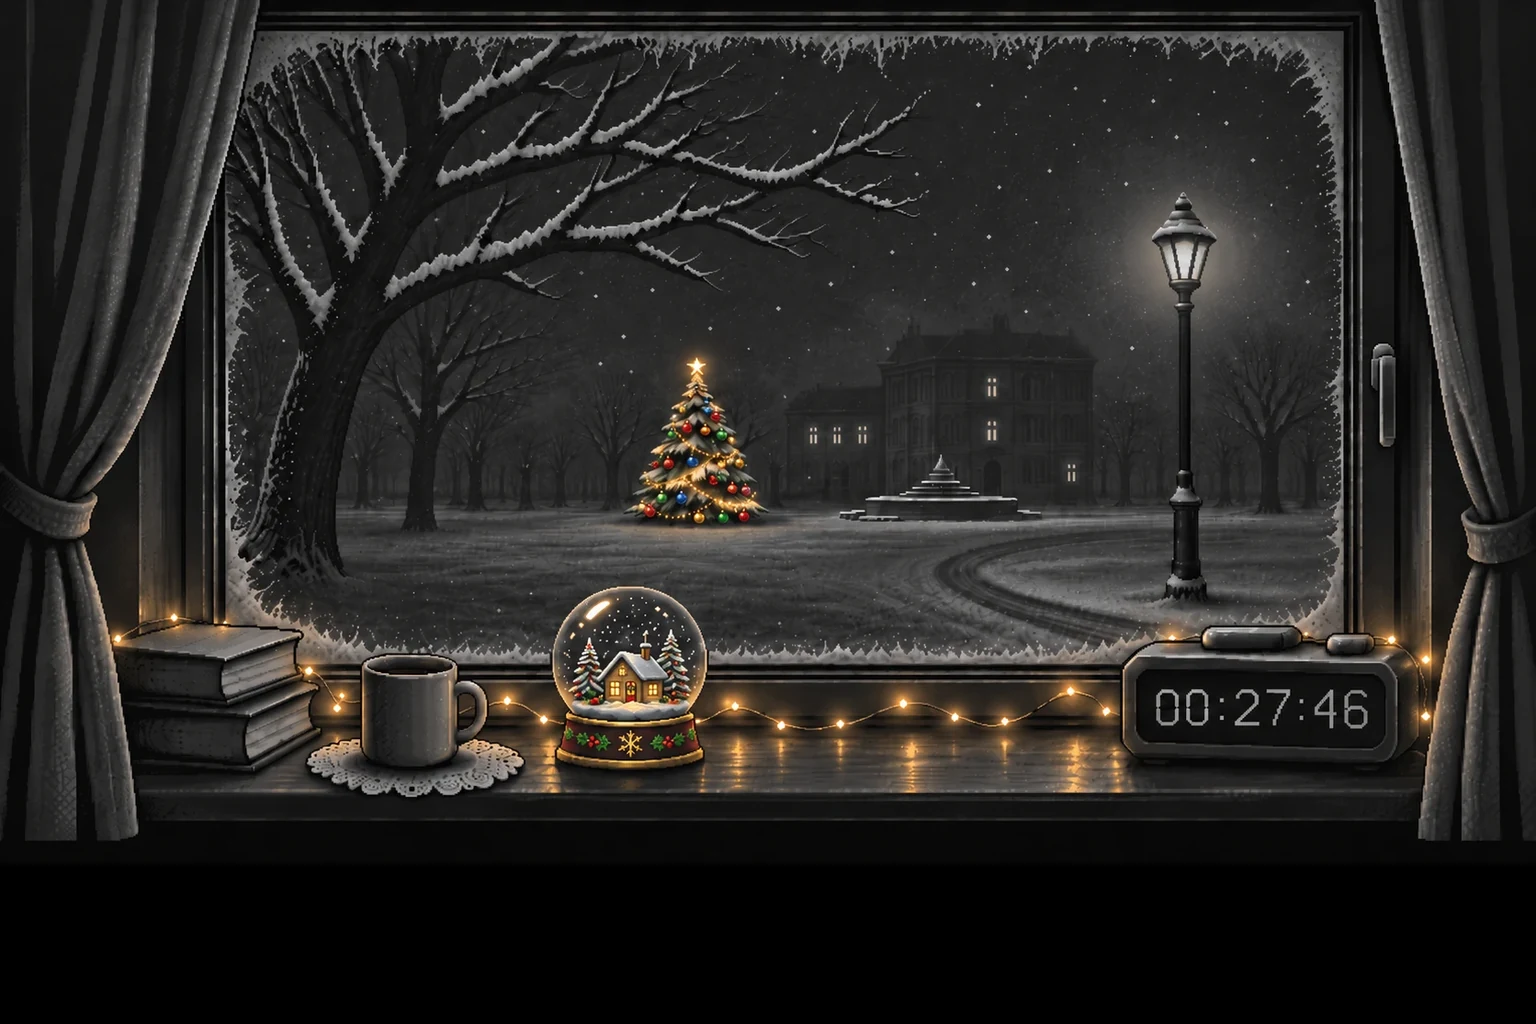
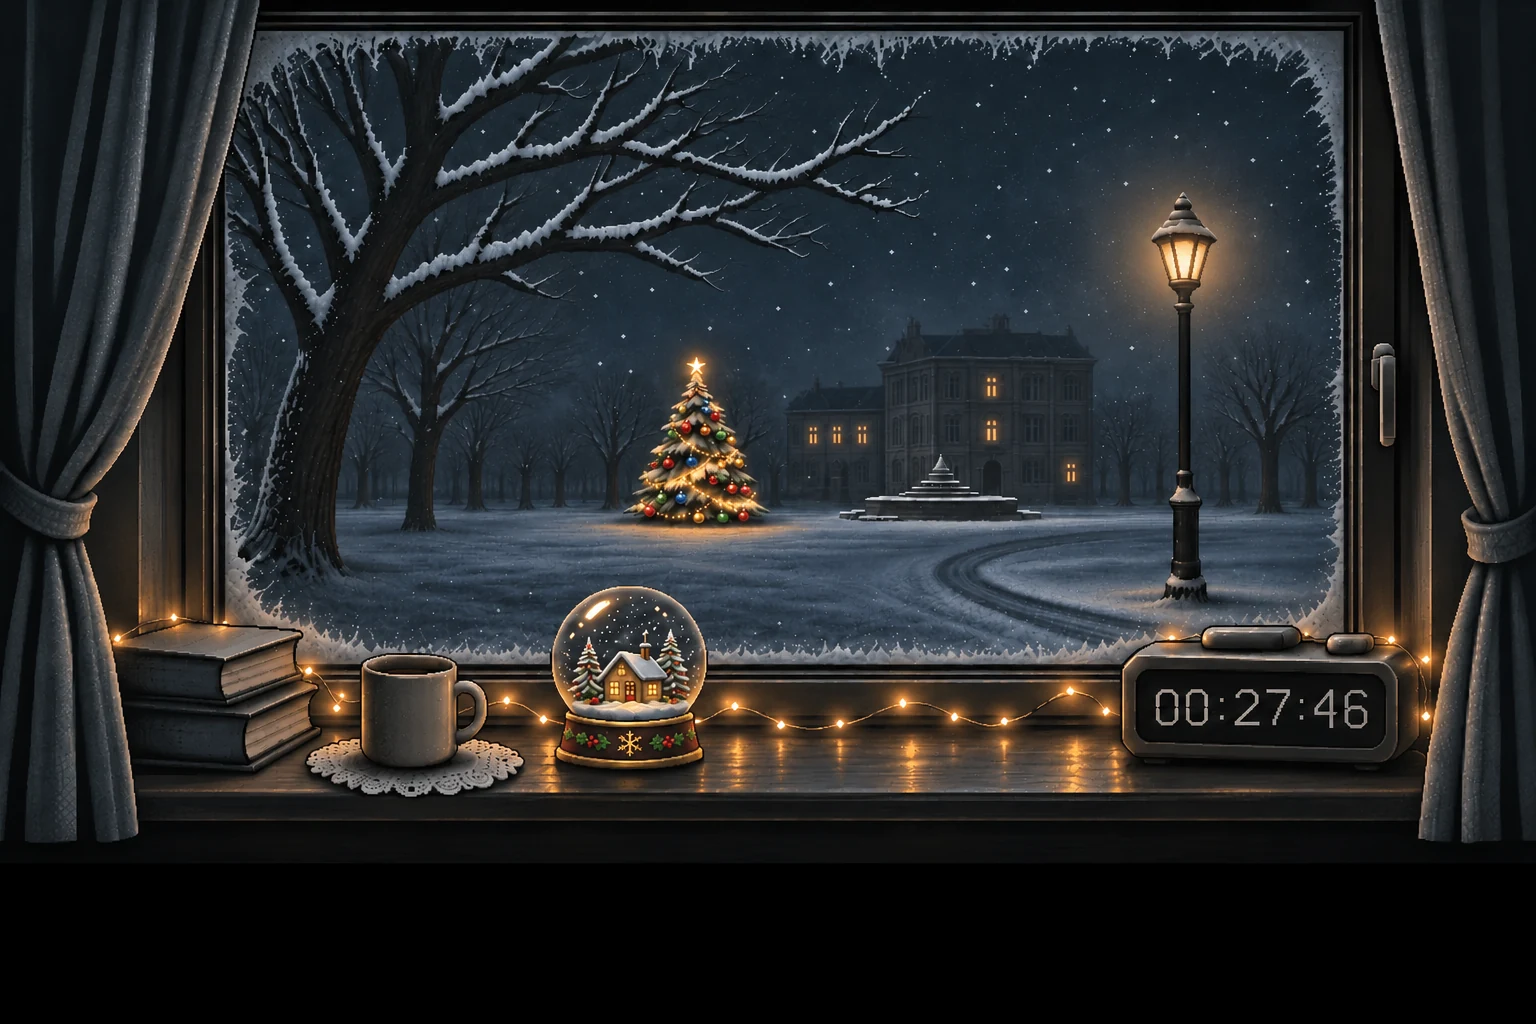
Phone (portrait) version: five portrait stage pictures with own frame, masks, lamp, mug, glass and gift position
Aligned by the clock with tools/normalize_portrait.py; new colour stage4 for wide screens; mute button moved under the stepper on narrow screens; sources in art/.

diff --git a/public/game/game.js b/public/game/game.js
@@ -11,6 +11,11 @@ const OCC={
   globe:{circle:[626,664,78]},
   clockBtn:{poly:[[1200,640],[1206,628],[1296,626],[1304,640],[1300,664],[1204,664]]},
 };
+// The same for the PORTRAIT frame (phones), see CONFIG.portrait.
+const OCCP={
+  globeA:{circle:[400,1352,78]},          // the snow globe on stage 4
+  globeB:{circle:[397,1357,74]},          // ... and on stage 5 (it sits slightly differently in that picture)
+};
 const CONFIG={
   // When each stop opens (local time of the visitor). Stops stay open once they have opened.
   stops:['2026-11-23T10:00','2026-11-28T10:00','2026-12-03T10:00','2026-12-08T10:00','2026-12-13T10:00'],
@@ -29,13 +34,14 @@ const CONFIG={
   //   cup   = centre of the mug's rim, where the faint steam starts
   // A stop without its own picture shows the last available one.
   stages:[
-    {src:'img/stage1.webp',cup:[415,668],clock:[1148,690,1380,752],lamp:[1188,258],tilt:2.3,occ:[OCC.books,OCC.clockBtn]},
-    {src:'img/stage2.webp',cup:[415,668],clock:[1148,690,1380,752],lamp:[1188,258],tilt:2.3,occ:[OCC.books,OCC.clockBtn]},
-    {src:'img/stage3.webp',cup:[410,663],clock:[1144,680,1378,742],lamp:[1190,248],tilt:.4,occ:[OCC.books,OCC.clockBtn]},
-    {src:'img/stage4.webp',cup:[410,663],clock:[1144,680,1378,742],lamp:[1186,252],tilt:1.2,occ:[OCC.books,OCC.globe,OCC.clockBtn]},
+    // p = the same stage in the portrait frame (phones): its own picture, lamp, mug, clear glass and occluders. Anything not listed is inherited.
+    {src:'img/stage1.webp',p:{src:'img/stage1-portrait.webp',lamp:[719,771],cup:[315,1352],glass:[145,112,800,1272],occ:[]},cup:[415,668],clock:[1148,690,1380,752],lamp:[1188,258],tilt:2.3,occ:[OCC.books,OCC.clockBtn]},
+    {src:'img/stage2.webp',p:{src:'img/stage2-portrait.webp',lamp:[721,783],cup:[315,1357],glass:[145,118,800,1272],occ:[]},cup:[415,668],clock:[1148,690,1380,752],lamp:[1188,258],tilt:2.3,occ:[OCC.books,OCC.clockBtn]},
+    {src:'img/stage3.webp',p:{src:'img/stage3-portrait.webp',lamp:[712,802],cup:[243,1366],glass:[100,245,795,1300],occ:[]},cup:[410,663],clock:[1144,680,1378,742],lamp:[1190,248],tilt:.4,occ:[OCC.books,OCC.clockBtn]},
+    {src:'img/stage4.webp',p:{src:'img/stage4-portrait.webp',lamp:[714,723],cup:[220,1360],glass:[115,112,785,1302],occ:[OCCP.globeA]},cup:[410,663],clock:[1144,680,1378,742],lamp:[1186,252],tilt:1.2,occ:[OCC.books,OCC.globe,OCC.clockBtn]},
     // Stage 5+ are warm-toned, so they carry a colour theme for the live layers:
     //   screen = colour of the clock screen, digit/unlit = lit and unlit segments, glow = lamp glow, tint = snow colour multiplier
-    {src:'img/stage5.webp',cup:[408,663],clock:[1144,680,1378,742],lamp:[1186,252],tilt:1.25,occ:[OCC.books,OCC.globe,OCC.clockBtn],screen:'#16100f',digit:'#e4c288',unlit:'#2b1e16',glow:[255,190,100],tint:[1,.92,.78]},
+    {src:'img/stage5.webp',p:{src:'img/stage5-portrait.webp',lamp:[710,790],cup:[225,1364],glass:[100,215,792,1298],occ:[OCCP.globeB]},cup:[408,663],clock:[1144,680,1378,742],lamp:[1186,252],tilt:1.25,occ:[OCC.books,OCC.globe,OCC.clockBtn],screen:'#16100f',digit:'#e4c288',unlit:'#2b1e16',glow:[255,190,100],tint:[1,.92,.78]},
   ],
   // The gift (box + lid cut by tools/prep_gift.py, heart by tools/make_heart.py - swap img/heart.png for the real reveal).
   // Everything is in the 1536x1024 frame / as fractions of the box:  x,y = centre of the box's base on the sill, w = box width;
@@ -56,6 +62,12 @@ const CONFIG={
            colorLines:true,   // the ornaments light up with the frames (false = they stay B/W)
            pixelated:false},  // false for smooth art, true to keep hard pixel edges when scaled
   glass:[250,56,1318,644],             // the clear part of the window, where the live snow falls
+  // PHONES (portrait screens). Its own frame and pictures (tools/normalize_portrait.py aligns them by the clock), everything in that frame's pixels.
+  //   glass = the snow field (the union of every stage's `p.glass`; a stage's own `p.glass` hides the snow outside its window)
+  //   clock/tilt = the clock screen, identical in all five pictures;  gift = where the box stands (x,y,w as in CONFIG.gift)
+  //   fitY = the lowest thing that must stay visible above the dialogue (the bottom of the clock);  dialogMax = room kept for the dialogue, px at most
+  portrait:{w:941,h:1672,glass:[100,112,800,1302],clock:[626,1368,838,1440],tilt:0,
+            gift:{x:545,y:1438,w:110},fitY:1450,dialogMax:225},
 };
 
 
@@ -320,10 +332,12 @@ const save=()=>{try{localStorage.setItem(KEY,JSON.stringify(state))}catch(e){}};
 /* =====================================================================
    ARTWORK
    ===================================================================== */
-const LW=1536,LH=1024;                                   // logical frame of every stage image
+let PORT=false,LW=1536,LH=1024,orientChanged=false;          // logical frame of the stage pictures: 1536x1024 on wide screens, CONFIG.portrait on phones
+/* the stage as it is meant for the current orientation (portrait overrides are merged over the base entry) */
+const stageMeta=i=>{const m=CONFIG.stages[i];if(!m||!PORT)return m;const P=CONFIG.portrait;return {...m,clock:P.clock,tilt:P.tilt,...m.p}};
 const artEl=$('#art'),imgsEl=$('#imgs'),imgA=$('#imgA'),dis=$('#dis'),fx=$('#fx'),fctx=fx.getContext('2d'),clk=$('#clk'),cctx=clk.getContext('2d');
 let box={s:1,left:0,top:0,w:LW,h:LH,P:2},glass={x:0,y:0,w:1,h:1},flakes=[];
-let stageIdx=0,meta=CONFIG.stages[0];
+let stageIdx=0,meta=stageMeta(0);
 let t=0,lampPower=0,lampTarget=0,lampRate=14,flick=1,dip=0,lastBright=-1,dpr=1;
 const imgCache={};
 const loadImg=src=>imgCache[src]||(imgCache[src]=new Promise((res,rej)=>{const i=new Image();i.onload=()=>res(i);i.onerror=()=>rej(new Error('missing '+src));i.src=src}));
@@ -331,19 +345,21 @@ const stageFor=n=>Math.min(Math.max(n,0),CONFIG.stages.length-1);      // 0 = st
 
 function layout(){
   const vw=innerWidth,vh=innerHeight,portrait=vh>vw*1.1,topInset=Math.ceil($('#stepper').getBoundingClientRect().bottom)+10;
+  if(portrait!==PORT){PORT=portrait;LW=PORT?CONFIG.portrait.w:1536;LH=PORT?CONFIG.portrait.h:1024;orientChanged=true}
   dpr=Math.min(2,window.devicePixelRatio||1);
   let s,left,top;
-  if(portrait){s=vw/(LW*.74);left=-LW*.17*s;                          // phones: crop to the window, lamp and clock (x 17%..91%)
-    top=topInset+Math.max(14,(vh-330-topInset-LH*s*.86)/2)}             // and sit between the stepper and the dialogue
+  if(PORT){const pf=CONFIG.portrait,room=clamp(vh*.27,150,pf.dialogMax);     // phones: the whole window, from under the stepper to just above the dialogue
+    s=Math.max(.05,Math.min(vw/LW,(vh-topInset-16-room)/pf.fitY));left=(vw-LW*s)/2;top=topInset}
   else{s=Math.max(.05,Math.min(vw/LW,(vh-topInset)/LH));left=(vw-LW*s)/2;top=topInset}      // never <=0 (a hidden or zero-height window)
   box={s,left,top,w:LW*s,h:LH*s,P:Math.max(2,Math.round(3*s))};
   imgsEl.style.left=left+'px';imgsEl.style.top=top+'px';imgsEl.style.width=box.w+'px';imgsEl.style.height=box.h+'px';
   fx.style.left=left+'px';fx.style.top=top+'px';fx.style.width=box.w+'px';fx.style.height=box.h+'px';
   fx.width=Math.ceil(box.w/box.P);fx.height=Math.ceil(box.h/box.P);
-  const g=CONFIG.glass,k=s/box.P;glass={x:g[0]*k,y:g[1]*k,w:(g[2]-g[0])*k,h:(g[3]-g[1])*k};
+  const g=PORT?CONFIG.portrait.glass:CONFIG.glass,k=s/box.P;glass={x:g[0]*k,y:g[1]*k,w:(g[2]-g[0])*k,h:(g[3]-g[1])*k};
   flakes=[];const n=Math.round(glass.w*glass.h/105);
   for(let i=0;i<n;i++)flakes.push({x:Math.random()*glass.w,y:Math.random()*glass.h,z:Math.random(),ph:Math.random()*6.28,vx:0,vy:0});
   placeClock();placeGift();
+  if(orientChanged){orientChanged=false;showStage(stageIdx,true)}     // the phone was turned: switch to the other set of pictures
 }
 function placeClock(){
   const c=meta.clock,s=box.s,x=box.left+c[0]*s,y=box.top+c[1]*s,w=(c[2]-c[0])*s,h=(c[3]-c[1])*s;
@@ -376,7 +392,7 @@ const giftReady=CONFIG.gift?Promise.all([CONFIG.gift.body,CONFIG.gift.lid,CONFIG
   giftBody.src=CONFIG.gift.body;giftLid.src=CONFIG.gift.lid;heartEl.src=CONFIG.gift.heart;return giftBody.decode().catch(()=>{}).then(()=>true)}).catch(()=>false):Promise.resolve(false);
 giftBody.onload=()=>placeGift();
 function placeGift(){
-  const g=CONFIG.gift;if(!g)return;const s=box.s,w=g.w*s,h=giftBody.naturalWidth?w*giftBody.naturalHeight/giftBody.naturalWidth:w*.8;
+  const g=CONFIG.gift&&(PORT?{...CONFIG.gift,...CONFIG.portrait.gift}:CONFIG.gift);if(!g)return;const s=box.s,w=g.w*s,h=giftBody.naturalWidth?w*giftBody.naturalHeight/giftBody.naturalWidth:w*.8;
   const left=box.left+g.x*s-w/2,top=box.top+g.y*s-h;
   Object.assign(giftEl.style,{width:w+'px',height:h+'px',left:left+'px',top:top+'px'});
   const lf=g.lidFit;Object.assign(giftLid.style,{width:lf.w*100+'%',left:lf.left*100+'%',top:lf.top*100+'%'});
@@ -422,7 +438,7 @@ async function openGiftBox(){
 const BAY8=(()=>{let m=[[0,2],[3,1]];for(let k=0;k<2;k++){const n=m.length,nm=Array.from({length:n*2},()=>Array(n*2));
   for(let y=0;y<n;y++)for(let x=0;x<n;x++){const v=m[y][x]*4;nm[y][x]=v;nm[y][x+n]=v+2;nm[y+n][x]=v+3;nm[y+n][x+n]=v+1}m=nm}return m.flat().map(v=>(v+.5)/64)})();
 async function showStage(idx,instant=false){
-  const m=CONFIG.stages[idx];if(!m)return;
+  const m=stageMeta(idx);if(!m)return;
   const im=await loadImg(m.src).catch(()=>null);if(!im)return;
   if(instant||!imgA.getAttribute('src')){imgA.src=m.src;await imgA.decode().catch(()=>{});stageIdx=idx;meta=m;placeClock();return}
   if(idx===stageIdx)return;
@@ -604,12 +620,14 @@ function frame(ts){
     const gc=(meta.glow||[255,255,255]).join(',');gr.addColorStop(0,`rgba(${gc},${(.22*lp).toFixed(3)})`);gr.addColorStop(1,`rgba(${gc},0)`);c.fillStyle=gr;c.fillRect(lx-LR,ly-LR,LR*2,LR*2);c.globalCompositeOperation='source-over'}
   const sway=Math.sin(t*.35)*6,gx=glass.x,gy=glass.y,gw=glass.w,gh=glass.h;
   stirSnow(dt,k);
+  const sg=meta.glass?meta.glass.map(v=>v*k):null;
   for(const f of flakes){
     f.y+=(10+f.z*22)*dt*(box.s>.5?1:.8);f.x+=(Math.sin(t*.9+f.ph)*(3+f.z*5)+sway*(.4+f.z))*dt;
     if(f.y>=gh){f.y=-2;f.x=Math.random()*gw}
     if(f.x<0)f.x+=gw;else if(f.x>=gw)f.x-=gw;
     if(f.y<0)continue;
     const x=Math.floor(gx+f.x),y=Math.floor(gy+f.y);
+    if(sg&&(x<sg[0]||x>=sg[2]||y<sg[1]||y>=sg[3]))continue;                // outside this stage's own window
     if(occMask&&occMask[y*fx.width+x])continue;
     const dx=x-lx,dy=y-ly,L=Math.max(0,1-Math.sqrt(dx*dx+dy*dy)/(LR*1.3))*clamp(lampPower,0,1);
     let i=f.z<.4?4:f.z<.75?5:6;i=Math.min(8,i+Math.round(L*3));
@@ -1077,6 +1095,6 @@ if(QS.has('debug')){gate.classList.remove('pick');setTimeout(start,50)}
 layout();
 let rz;addEventListener('resize',()=>{clearTimeout(rz);rz=setTimeout(()=>{fitStepper();renderStepper();layout()},150)});
 // warm the cache so the first dissolve is instant
-CONFIG.stages.forEach(s=>loadImg(s.src).catch(()=>{}));
+CONFIG.stages.forEach((_,i)=>loadImg(stageMeta(i).src).catch(()=>{}));
 requestAnimationFrame(frame);
 })();

diff --git a/src/styles.css b/src/styles.css
@@ -90,6 +90,7 @@ button{font:inherit;color:inherit}
 #mute.on.has:hover,#mute.on.has:focus-visible{opacity:1;background:var(--ink);color:#000;outline:none}
 #mute svg{width:100%;height:100%;display:block}
 #mute .x{display:none}#mute.off .w{display:none}#mute.off .x{display:block}
+@media (max-width:699px){#mute{top:calc(max(14px,env(safe-area-inset-top)) + 62px);right:max(10px,env(safe-area-inset-right));width:32px;height:32px;padding:6px}}      /* narrow screens: the progress bar runs edge to edge, so the button sits under it */
 #clockUI{position:fixed;z-index:4;opacity:0;transition:opacity 1.6s;pointer-events:none}
 #clockUI.on{opacity:1}
 #clockBtn{position:absolute;inset:0;background:none;border:0;cursor:pointer;pointer-events:auto}

diff --git a/tools/normalize_portrait.py b/tools/normalize_portrait.py
@@ -1,0 +1,37 @@
+#!/usr/bin/env python3
+"""Fit portrait (phone) stage pictures into ONE common 941x1672 frame and save them as public/img/stageN-portrait.webp.
+
+The pictures are AI-generated, so every one has a slightly different "camera". To keep the clock (which the page draws live on
+the picture) and the sill in the same place from stage to stage, each picture is scaled and shifted so that the CENTRE and WIDTH
+of the painted clock digits ("00:27:46") match a reference. Whatever the picture does not cover is filled by repeating its edge.
+
+Usage:   python3 tools/normalize_portrait.py N:path:cx:cy:w [N:path:cx:cy:w ...]
+         N = stage number (1..5), cx,cy = centre of the clock digits in the source picture (px), w = their width (px)
+Example: python3 tools/normalize_portrait.py 1:art/portrait-1-start.png:731.5:1405.5:181 2:art/portrait-2-now.png:732:1404:182
+Reference: digits centre (732,1404), width 182 (that is what picture 2 already has). Requires: pip install pillow numpy
+"""
+import sys, os
+import numpy as np
+from PIL import Image
+
+FW, FH = 941, 1672
+REF_CX, REF_CY, REF_W = 732.0, 1404.0, 182.0
+out_dir = os.path.join(os.path.dirname(os.path.abspath(__file__)), '..', 'public', 'img')
+
+if len(sys.argv) < 2 or sys.argv[1] in ('-h', '--help'):
+    sys.exit(__doc__)
+os.makedirs(out_dir, exist_ok=True)
+for spec in sys.argv[1:]:
+    n, path, cx, cy, w = spec.split(':') if spec.count(':') == 4 else (lambda p: (p[0], ':'.join(p[1:-3]), *p[-3:]))(spec.split(':'))
+    cx, cy, w = float(cx), float(cy), float(w)
+    im = Image.open(path).convert('RGB')
+    s = REF_W / w
+    im = im.resize((round(im.width * s), round(im.height * s)), Image.LANCZOS)
+    ox, oy = round(REF_CX - cx * s), round(REF_CY - cy * s)             # where the resized picture's top-left lands in the frame
+    x0, y0, x1, y1 = max(0, ox), max(0, oy), min(FW, ox + im.width), min(FH, oy + im.height)
+    part = np.array(im.crop((x0 - ox, y0 - oy, x1 - ox, y1 - oy)))
+    full = np.pad(part, ((y0, FH - y1), (x0, FW - x1), (0, 0)), mode='edge')   # repeat the edge where the picture does not reach
+    dst = os.path.join(out_dir, f'stage{n}-portrait.webp')
+    Image.fromarray(full).save(dst, quality=88, method=6)
+    gaps = f'top {y0} bottom {FH - y1} left {x0} right {FW - x1}'
+    print(f'stage{n}: scale {s:.3f}  offset ({ox},{oy})  filled px: {gaps}  -> {os.path.normpath(dst)} {os.path.getsize(dst) // 1024} KB')

diff --git a/README.md b/README.md
@@ -23,6 +23,7 @@ All the text the player reads is in the `TX` dictionary (`en`, `ru`, `ro`) in th
 ## Pictures (`public/img/`)
 All stage pictures are one 1536x1024 frame. Helper scripts (Python 3 + `pip install pillow`):
 - Stage picture:  `python3 tools/normalize.py --start 4 path/to/picture.webp`  → `public/img/stage4.webp`, then add its line to `CONFIG.stages`.
+- Phone (portrait) pictures: `python3 tools/normalize_portrait.py 1:art/portrait-1-start.png:731.5:1405.5:181 …`  (stage : file : clock-digits centre x : y : width) → `public/img/stageN-portrait.webp`; their lamp / mug / glass / masks are the `p:` block of each stage in `CONFIG.stages`.
 - Progress-bar sheet (6 frames + 5 ornaments):  `python3 tools/slice_sheet.py path/to/sheet.webp`  → `public/img/ui/*.png`.
 - Gift from one transparent sheet (box left, lid right):  `python3 tools/split_gift_sheet.py art/gift-sheet-berries.png`  → `public/img/gift-body.png`, `gift-lid.png`.
   Or from two white-background pictures:  `python3 tools/prep_gift.py --body box.webp --lid lid.webp`.
